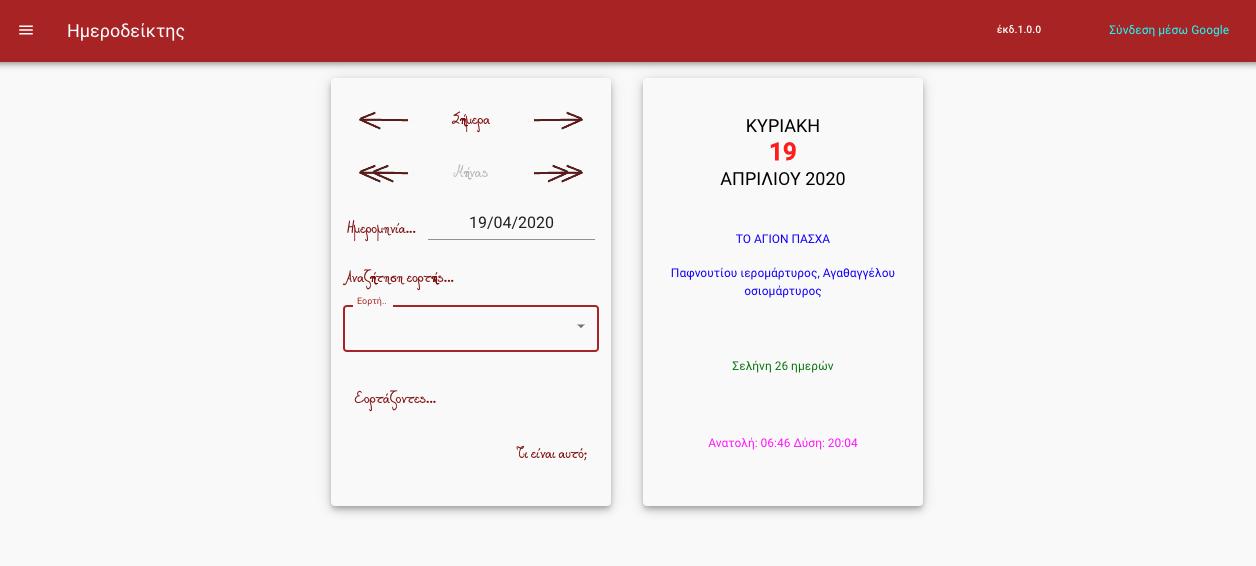
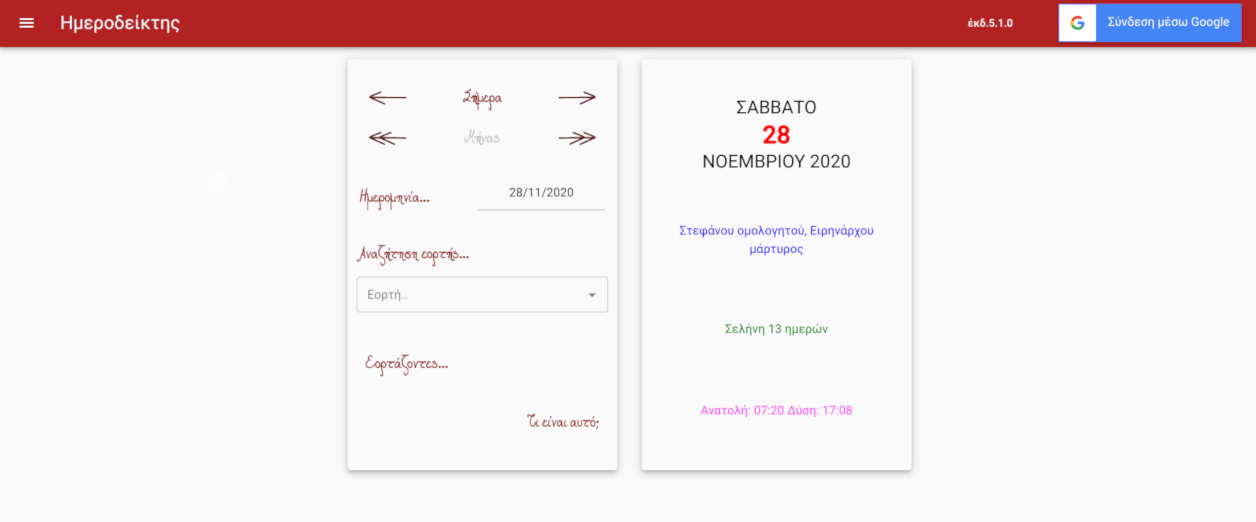
google button changed according to specs, help text improved

diff --git a/client/src/components/Help.js b/client/src/components/Help.js
@@ -87,23 +87,21 @@ const Help = (props) => {
                     Γραμμή επικεφαλίδας
                 </h3>
                 <div>
-                    Στο δεξί μέρος της γραμμής επικεφαλίδας που υπάρχει στην κορυφή της σελίδας, εμφανίζεται ένας
-                    σύνδεσμος με ετικέτα:{' '}
-                    <b>
-                        <i>Σύνδεση μέσω Google</i>
-                    </b>
-                    . Αν θέλουμε να χρησιμοποιήσουμε την δυνατότητα να μάθουμε ποιοι από τις επαφές μας έχουν την
-                    ονομαστική τους εορτή μια συγκεκριμένη μέρα, θα πρέπει προηγουμένως να συνδεθούμε στο Google. Αφού
-                    πατήσουμε τον σύνδεσμο, θα εμφανιστεί ένα πλαίσιο που μας καλεί να επιλέξουμε τον λογαριασμό Google
-                    με τον οποίο θέλουμε να συνδεθούμε και στη συνέχεια ένα δεύτερο πλαίσιο μας ζητάει να επιβεβαιώσουμε
-                    ότι παραχωρούμε στην εφαρμογή <i>Ημεροδείκτης</i> το δικαίωμα να έχει πρόσβαση στις επαφές μας.
+                    Στο δεξί μέρος της γραμμής επικεφαλίδας που υπάρχει στην κορυφή της σελίδας, εμφανίζεται ένα κουμπί
+                    με ετικέτα: <b>Σύνδεση μέσω Google</b>. Αν θέλουμε να χρησιμοποιήσουμε την δυνατότητα να μάθουμε
+                    ποιοι από τις επαφές μας έχουν την ονομαστική τους εορτή μια συγκεκριμένη μέρα, θα πρέπει
+                    προηγουμένως να συνδεθούμε στην εφαρμογή μέσω Google. Αφού πατήσουμε το κουμπί, θα εμφανιστεί ένα
+                    πλαίσιο που μας καλεί να επιλέξουμε τον λογαριασμό Google με τον οποίο θέλουμε να συνδεθούμε και στη
+                    συνέχεια ένα δεύτερο πλαίσιο μας ζητάει να επιβεβαιώσουμε ότι παραχωρούμε στην εφαρμογή{' '}
+                    <i>Ημεροδείκτης </i>
+                    το δικαίωμα να έχει πρόσβαση στις επαφές μας.
                 </div>
                 <div>
                     <b>
                         <ul>
                             <li>
-                                Εδώ πρέπει να δηλωθεί πως η εφαρμογή <i>Ημεροδείκτης</i>
-                                <u> δεν αποθηκεύει και δεν χρησιμοποιεί καθ'οιονδήποτε τρόπο</u> όλα ή μέρος των
+                                Εδώ πρέπει να δηλωθεί πως η εφαρμογή <i>Ημεροδείκτης </i>
+                                <u> δεν αποθηκεύει και δεν χρησιμοποιεί με οποιονδήποτε τρόπο</u> όλα ή μέρος των
                                 στοιχείων των επαφών του χρήστη.
                             </li>
                         </ul>
@@ -139,10 +137,7 @@ const Help = (props) => {
                         <b>Μετακίνηση στον χρόνο</b>
                     </li>
                     <div>
-                        Στην πρώτη σειρά, με τα βέλη προχωράμε μιά ημέρα μπροστά ή πίσω και με το κουμπί
-                        <b>
-                            <i> Σήμερα</i>
-                        </b>
+                        Στην πρώτη σειρά, με τα βέλη προχωράμε μιά ημέρα μπροστά ή πίσω και με το κουμπί <b>Σήμερα </b>
                         επιστρέφουμε στην σημερινή ημερομηνία. Στην δεύτερη σειρά, τα βέλη μας οδηγούν ένα μήνα μπροστά
                         ή πίσω.
                     </div>
@@ -156,11 +151,8 @@ const Help = (props) => {
                         />
                     </Paper>
                     <div>
-                        Αμέσως πιο κάτω, αν κάνουμε κλικ δίπλα από την ετικέτα{' '}
-                        <b>
-                            <i>Ημερομηνία</i>
-                        </b>
-                        , θα εμφανιστεί ένα πλαίσιο διαλόγου για να μεταβούμε σε οποιαδήποτε ημερομηνία επιθυμούμε.
+                        Αμέσως πιο κάτω, αν κάνουμε κλικ δίπλα από την ετικέτα <b>Ημερομηνία</b>, θα εμφανιστεί ένα
+                        πλαίσιο διαλόγου για να μεταβούμε σε οποιαδήποτε ημερομηνία επιθυμούμε.
                     </div>
                     <div>
                         <p />
@@ -178,20 +170,10 @@ const Help = (props) => {
                         />
                     </Paper>
                     <div>
-                        Κάτω από την ετικέτα{' '}
-                        <b>
-                            <i>Αναζήτηση εορτής</i>
-                        </b>{' '}
-                        εμφανίζεται ένα πλαίσιο αναζήτησης. Αν πατήσουμε το βελάκι στο δεξί μέρος του πλαισίου, θα
-                        εμφανιστεί μια λίστα μέ όλες τις εορτές του έτους. Πρώτα εμφανίζονται οι{' '}
-                        <b>
-                            <i>κινητές εορτές</i>
-                        </b>{' '}
-                        (ταξινομημένες με χρονολογική σειρά) και κατόπιν οι
-                        <b>
-                            <i> ακίνητες</i>
-                        </b>{' '}
-                        (αλφαβητικά).
+                        Κάτω από την ετικέτα <b>Αναζήτηση εορτής</b> εμφανίζεται ένα πλαίσιο αναζήτησης. Αν πατήσουμε το
+                        βελάκι στο δεξί μέρος του πλαισίου, θα εμφανιστεί μια λίστα μέ όλες τις εορτές του έτους. Πρώτα
+                        εμφανίζονται οι <b>κινητές εορτές</b> (ταξινομημένες με χρονολογική σειρά) και κατόπιν οι{' '}
+                        <b>ακίνητες</b> (αλφαβητικά).
                     </div>
                     <div>
                         Εναλλακτικά μπορούμε να αρχίσουμε να πληκτρολογούμε μέρος του ονόματος της εορτής που
@@ -205,20 +187,17 @@ const Help = (props) => {
                 <div>
                     <b>
                         Όπως αναφέρθηκε και παραπάνω, για να μπορέσουμε να χρησιμοποιήσουμε τη συγκεκριμένη δυνατότητα,
-                        θα πρέπει προηγουμένως να <a href="#header">συνδεθούμε στο Google</a>.
+                        θα πρέπει προηγουμένως να <a href="#header">συνδεθούμε στην εφαρμογή μέσω Google</a>.
                     </b>
                 </div>
                 <div>
                     <p />
                 </div>
                 <div>
-                    Αν πατήσουμε το κουμπί{' '}
-                    <b>
-                        <i>Εορτάζοντες</i>
-                    </b>{' '}
-                    η εφαρμογή θα προσπαθήσει να βρει στις επαφές που έχουμε καταχωρήσει στο Google, πρόσωπα που έχουν
-                    την ονομαστική τους εορτή την συγκεκριμένη ημέρα. Αν δεν υπάρχουν εορτάζοντες, θα ενημερωθούμε με
-                    σχετικό μήνυμα. Αν βρεθούν, τότε ξεκινάει μια διαδικασία από 3 διαδοχικές οθόνες (wizard):
+                    Αν πατήσουμε το κουμπί <b>Εορτάζοντες</b> η εφαρμογή θα προσπαθήσει να βρει στις επαφές που έχουμε
+                    καταχωρήσει στο Google, πρόσωπα που έχουν την ονομαστική τους εορτή την συγκεκριμένη ημέρα. Αν δεν
+                    υπάρχουν εορτάζοντες, θα ενημερωθούμε με σχετικό μήνυμα. Αν βρεθούν, τότε ξεκινάει μια διαδικασία
+                    από 3 διαδοχικές οθόνες (wizard):
                 </div>
                 <ol>
                     <li className={classes.wizardScreen}>
@@ -243,17 +222,10 @@ const Help = (props) => {
                         Αν θέλουμε να προχωρήσουμε στην αποστολή μηνύματος email σε εορτάζοντες, πρέπει να επιλέξουμε
                         τους παραλήπτες κάνοντας κλικ στα τετραγωνάκια που βρίσκονται αριστερά από κάθε εγγραφή. Για να
                         επιλέξουμε όλους/ες, κάνουμε κλικ στο τετραγωνάκι που βρίσκεται στην γραμμή των ετικετών του
-                        πίνακα. Στη συνέχεια πατάμε το κουμπί{' '}
-                        <b>
-                            <i>Επόμενο</i>
-                        </b>
-                        .
+                        πίνακα. Στη συνέχεια πατάμε το κουμπί <b>Επόμενο</b>.
                     </div>
                     <div>
-                        Για να επιστρέψουμε στην αρχική οθόνη χωρίς να αποστείλουμε μήνυμα, πατάμε{' '}
-                        <b>
-                            <i>Άκυρο</i>
-                        </b>
+                        Για να επιστρέψουμε στην αρχική οθόνη χωρίς να αποστείλουμε μήνυμα, πατάμε <b>Άκυρο</b>.
                     </div>
                     <div>
                         <p />
@@ -269,19 +241,12 @@ const Help = (props) => {
                             alt=""
                             style={{ textAlign: 'center', verticalAlign: 'middle' }}
                         />
-                    </Paper>{' '}
+                    </Paper>
                     <div>
                         Στην σελίδα αυτή μπορούμε να γράψουμε το μήνυμα που θα αποστείλουμε στους επιλεγμένους
                         αποδέκτες. Εμφανίζονται δύο πεδία για συμπλήρωση: <i>Θέμα</i> και <i>Κείμενο</i>. Και τα δύο
-                        είναι υποχρεωτικά. Μετά την συμπλήρωση, πατάμε το κουμπί{' '}
-                        <b>
-                            <i>Επόμενο</i>
-                        </b>{' '}
-                        για να προχωρήσουμε στην επόμενη οθόνη. Με το κουμπί{' '}
-                        <b>
-                            <i>Προηγούμενο</i>
-                        </b>{' '}
-                        επιστρέφουμε στην λίστα εορταζόντων.
+                        είναι υποχρεωτικά. Μετά την συμπλήρωση, πατάμε το κουμπί <b>Επόμενο</b> για να προχωρήσουμε στην
+                        επόμενη οθόνη. Με το κουμπί <b>Προηγούμενο</b> επιστρέφουμε στην λίστα εορταζόντων.
                     </div>
                     <div>
                         <p />
@@ -300,26 +265,16 @@ const Help = (props) => {
                     </Paper>
                     <div>
                         Στην σελίδα αυτή καλούμαστε να επαληθεύσουμε τα δεδομένα που έχουμε εισαγάγει, δηλαδή τους
-                        παραλήπτες και τα στοιχεία του μηνύματος (θέμα, κείμενο). Αν όλα είναι εντάξει, πατάμε{' '}
-                        <b>
-                            <i>Αποστολή</i>
-                        </b>{' '}
-                        για να αποσταλεί το μήνυμα. Αλλιώς, πατάμε{' '}
-                        <b>
-                            <i>Προηγούμενο</i>
-                        </b>{' '}
-                        για επιστροφή στις προηγούμενες σελίδες.
+                        παραλήπτες και τα στοιχεία του μηνύματος (θέμα, κείμενο). Αν όλα είναι εντάξει, πατάμε
+                        <b> Αποστολή</b> για να αποσταλεί το μήνυμα. Αλλιώς, πατάμε <b>Προηγούμενο</b> για επιστροφή
+                        στις προηγούμενες σελίδες.
                     </div>
                 </ol>
                 <div>
                     <p />
                 </div>
-                Αφού πατήσουμε{' '}
-                <b>
-                    <i>Αποστολή</i>
-                </b>
-                , η εφαρμογή επιστρέφει στην <a href="#home">αρχική οθόνη</a>, ενώ στο παρασκήνιο αποστέλλεται το μήνυμα
-                στους αποδέκτες.{' '}
+                Αφού πατήσουμε <b>Αποστολή</b>, η εφαρμογή επιστρέφει στην <a href="#home">αρχική οθόνη</a>, ενώ στο
+                παρασκήνιο αποστέλλεται το μήνυμα στους αποδέκτες.
                 <b>Η αποστολή αυτή μπορεί να διαρκέσει αρκετά δευτερόλεπτα, ανάλογα με το πλήθος των παραληπτών</b>.
                 Όταν η διαδικασία ολοκληρωθεί, ο χρήστης θα ειδοποιηθεί με μήνυμα στην οθόνη για την επιτυχία της
                 αποστολής ή για πιθανό πρόβλημα.

diff --git a/client/src/components/Header.js b/client/src/components/Header.js
@@ -13,6 +13,7 @@ import IconButton from '@material-ui/core/IconButton';
 import MenuIcon from '@material-ui/icons/Menu';
 import Menu from '@material-ui/core/Menu';
 import MenuItem from '@material-ui/core/MenuItem';
+import GoogleButton from 'react-google-button';
 
 import * as actions from '../actions';
 
@@ -151,11 +152,14 @@ onClose={handleClose}
                 return;
             case false:
                 return (
-                    <Button href="/auth/google">
-                        <Typography variant="subtitle1" className={this.classes.login}>
-                            {messages.loginWithGoogle}
-                        </Typography>
-                    </Button>
+                    <GoogleButton
+                        type="dark"
+                        label={messages.loginWithGoogle}
+                        onClick={() => {
+                            window.location.href = '/auth/google';
+                            // console.log('Google button clicked');
+                        }}
+                    />
                 );
             default:
                 return (

diff --git a/client/src/util/messages.js b/client/src/util/messages.js
@@ -15,9 +15,9 @@ const messages = {
     help: 'Τι είναι αυτό;',
     okLabel: 'OK',
     cancelLabel: 'ΑΚΥΡΟ',
-    privacy: 'Πολιτική Απορρήτου',
+    privacy: 'Πολιτική Ιδιωτικότητας',
     cookiesConsentText:
-        'Ο ιστότοπος χρησιμοποιεί cookies για την σύνδεση του χρήστη στο Google, αλλά δεν αποθηκεύει ή χρησιμοποιεί προσωπικά δεδομένα',
+        'Ο ιστότοπος χρησιμοποιεί cookies για καλύτερη εξυπηρέτηση του χρήστη, αλλά δεν αποθηκεύει και δεν χρησιμοποιεί προσωπικά δεδομένα',
     cookiesConsentButton: 'Καταλαβαίνω',
     loginWithGoogle: 'Σύνδεση μέσω Google',
     logout: 'Αποσύνδεση',

diff --git a/client/src/components/Privacy.js b/client/src/components/Privacy.js
@@ -56,7 +56,7 @@ const Privacy = (props) => {
                 <h3 className={classes.h3}>Almanac: Privacy policy</h3>
                 <div>
                     The application 'Almanac' declares that does not store or use in any way all or part of the user's
-                    contacts information as well as any other of his/her personal data, such as e-mail, etc..
+                    contacts information as well as any other of his/her personal data, such as e-mail messages, etc..
                 </div>
             </div>
         </>
